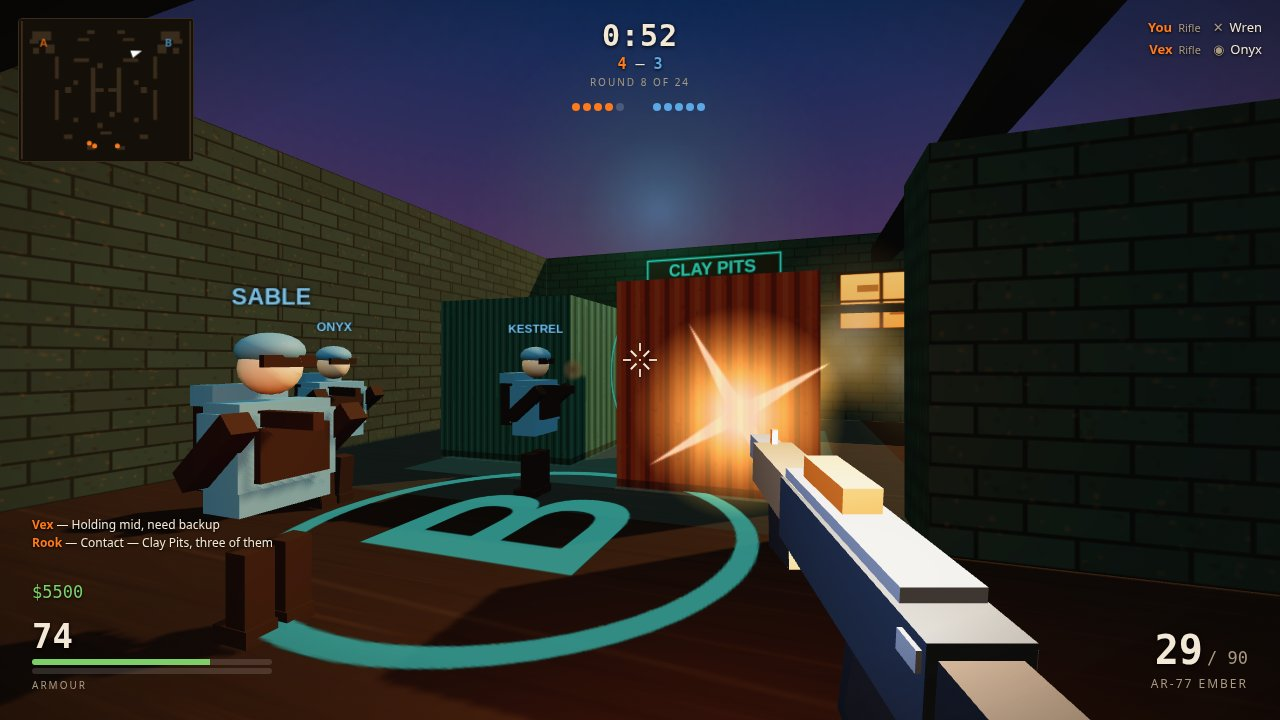
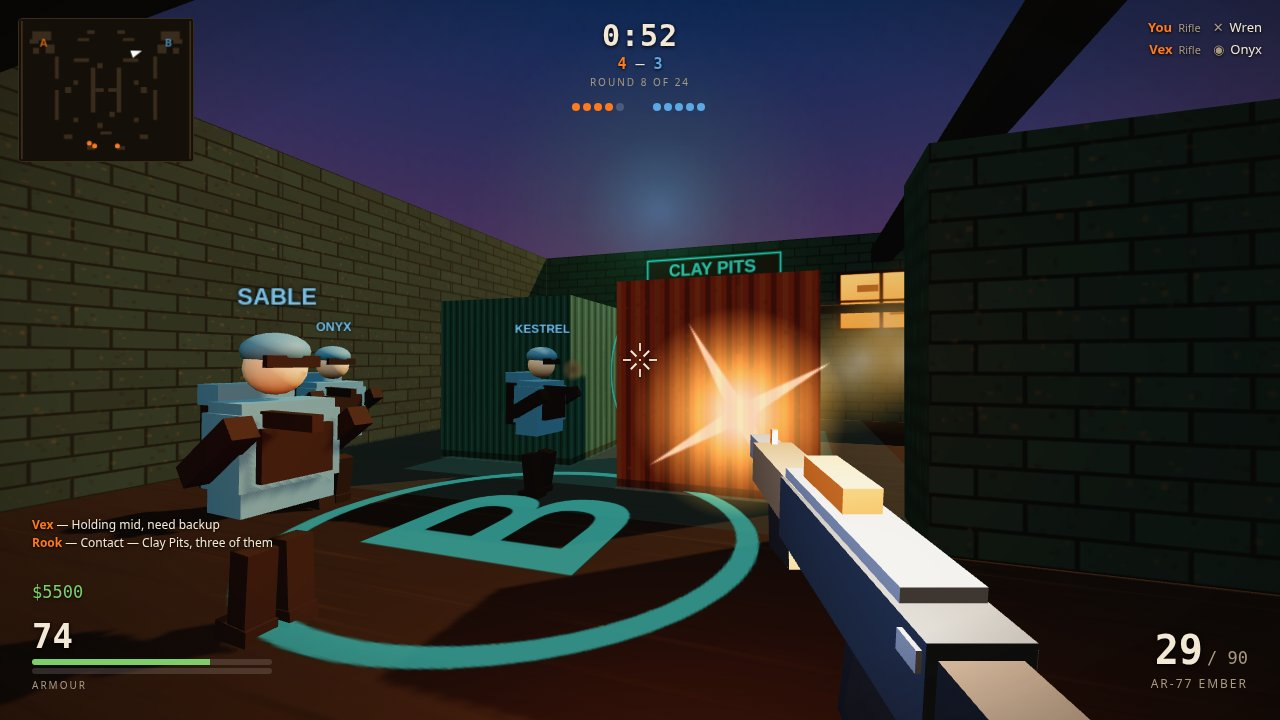
Polish 4f: smoke opacity up (0.38-0.52) so the edge bank reads as smoke; judged 158710 bytes

diff --git a/game/src/effects.js b/game/src/effects.js
@@ -195,8 +195,8 @@ export function createEffects(scene) {
       const puff = group.children[i];
       puff.position.set(smokeSeed[o], smokeSeed[o + 1], smokeSeed[o + 2]);
       const b = (c * SMOKE_PUFFS + i) * 2;
-      smokeBase[b] = 2.2 + Math.random() * 1.4;
-      smokeBase[b + 1] = 0.28 + Math.random() * 0.14;
+      smokeBase[b] = 2.4 + Math.random() * 1.4;
+      smokeBase[b + 1] = 0.38 + Math.random() * 0.14;
       puff.scale.setScalar(smokeBase[b]);
       puff.material.opacity = smokeBase[b + 1];
       puff.material.rotation = Math.random() * Math.PI * 2;
